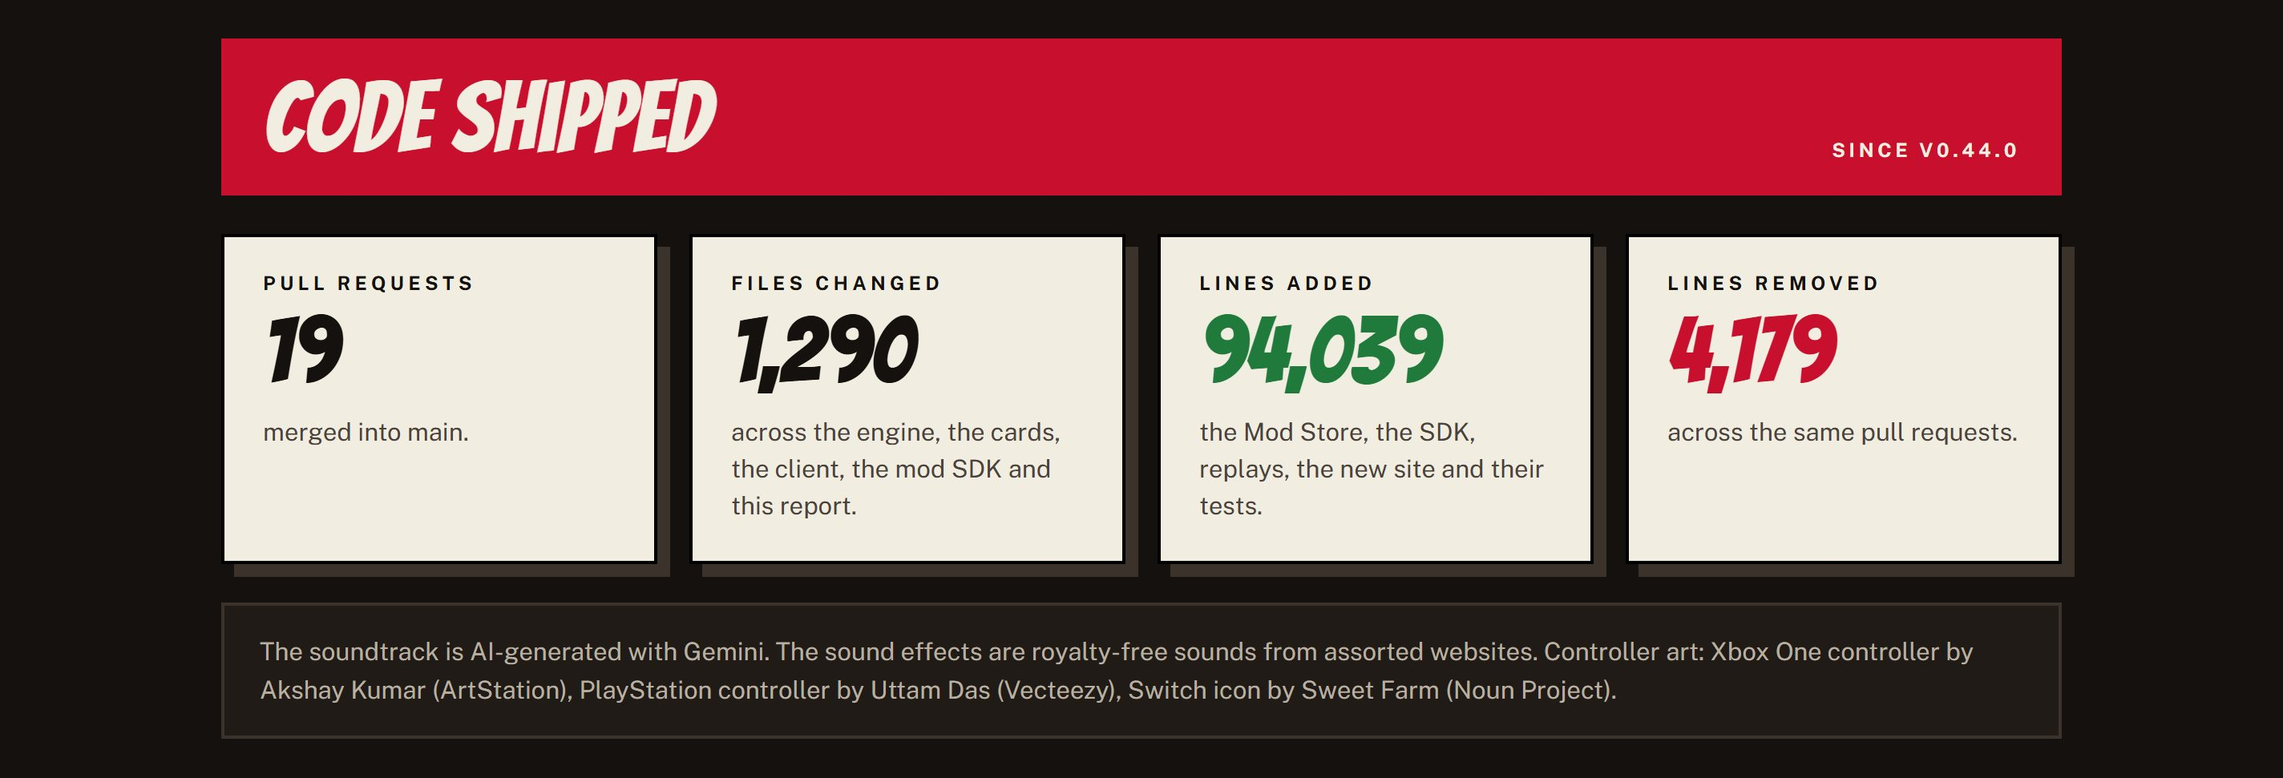
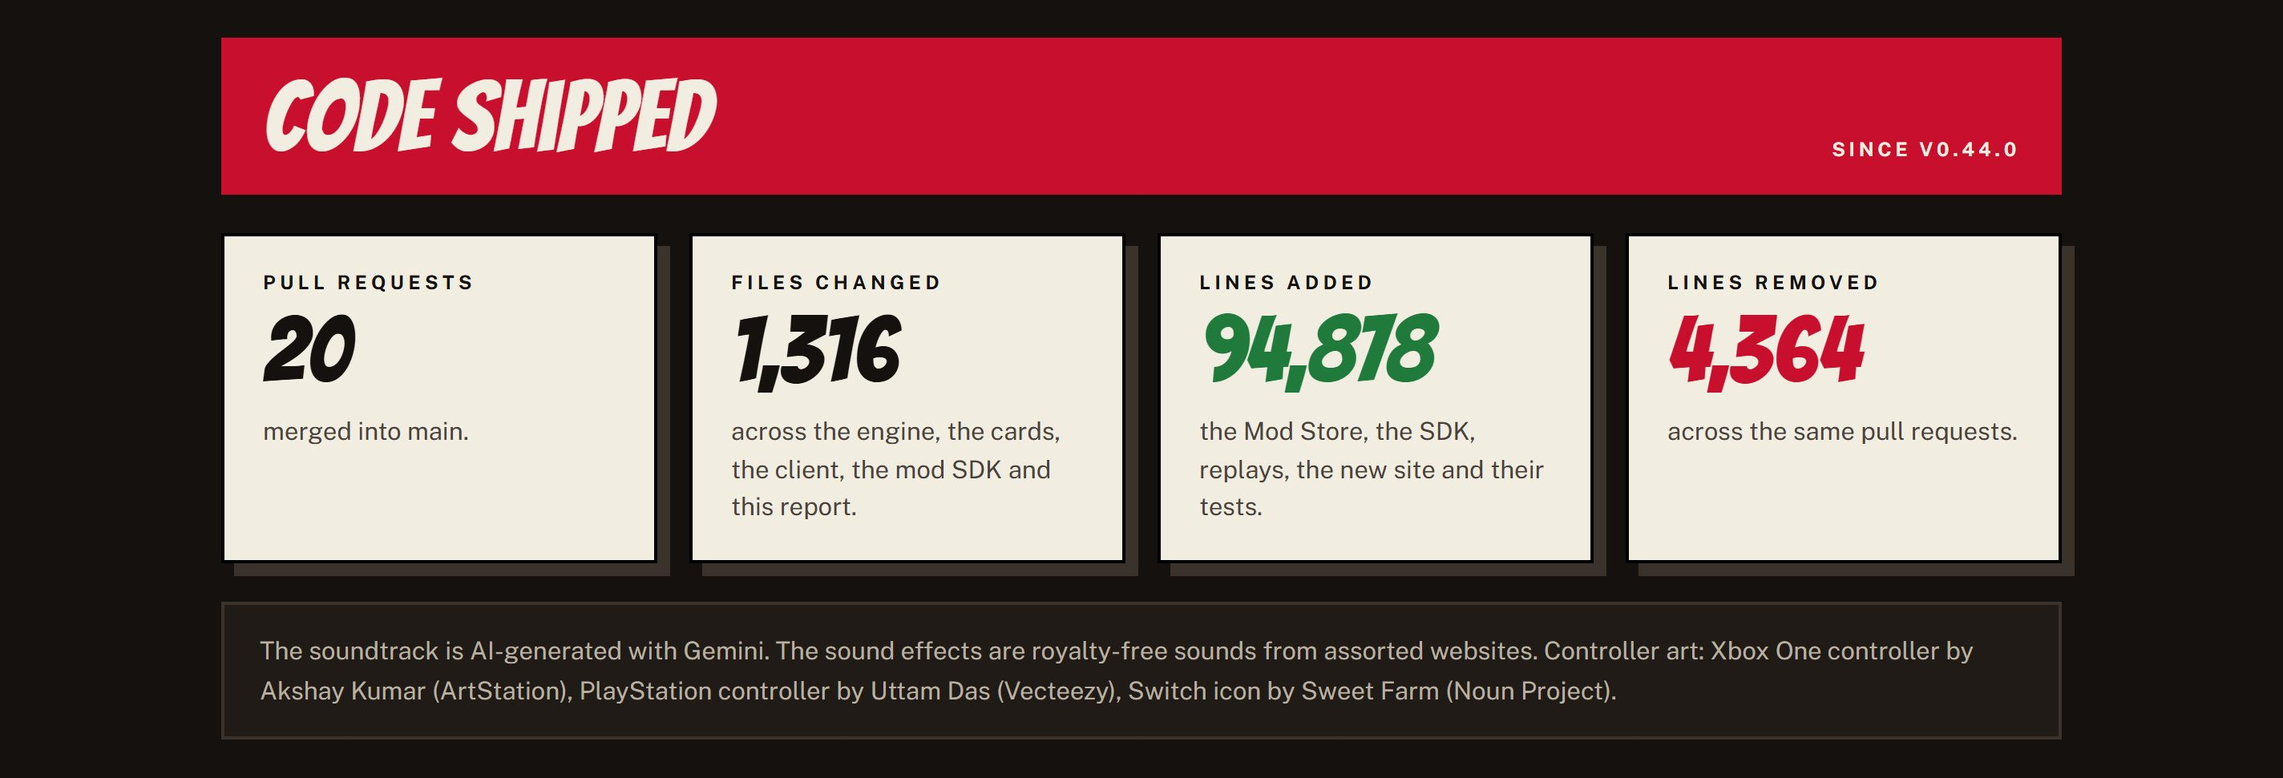
v0.45.0 announcement: bluefireF5ran's Spanish New game screens (#719), Code shipped at 20
Adds #719's Added line from the release PR's notes, a More in Spanish
item in Also in, the translation in bluefireF5ran's thank-you and the
header, and recounts Code shipped. Images 06, 07 and 08 re-cut.

diff --git a/packages/client/public/releases/v0.45.0/index.html b/packages/client/public/releases/v0.45.0/index.html
@@ -950,6 +950,10 @@
             </li>
             <li>Every product, Core Set to wave 11, is now built the way a mod is. Nothing changes in play.</li>
             <li>The FFG rulings transcript now runs to October 12, 2026.</li>
+            <li>
+              <b>More in Spanish:</b> the first New game screens (the guide chooser, scenario select and the unlock
+              prompts), translated by @bluefireF5ran (#719).
+            </li>
           </ul>
         </div>
       </div>
@@ -982,7 +986,8 @@
             <h3>@bluefireF5ran</h3>
             <p>
               Curated every community pack in the store, made the Lost Traits house rule, brought Mephisto's Spanish
-              card faces and art, and fixed how searches offer cards, <b>#714</b> and <b>#715</b>.
+              card faces and art, fixed how searches offer cards, <b>#714</b> and <b>#715</b>, and put the first New
+              game screens into Spanish, <b>#719</b>.
             </p>
           </div>
           <div class="person wide">
@@ -1016,22 +1021,22 @@
       <section class="stats" aria-label="Code shipped since v0.44.0">
         <div class="tile">
           <h4>Pull requests</h4>
-          <div class="n">19</div>
+          <div class="n">20</div>
           <p>merged into main.</p>
         </div>
         <div class="tile">
           <h4>Files changed</h4>
-          <div class="n">1,290</div>
+          <div class="n">1,316</div>
           <p>across the engine, the cards, the client, the mod SDK and this report.</p>
         </div>
         <div class="tile">
           <h4>Lines added</h4>
-          <div class="n c-green">94,039</div>
+          <div class="n c-green">94,878</div>
           <p>the Mod Store, the SDK, replays, the new site and their tests.</p>
         </div>
         <div class="tile">
           <h4>Lines removed</h4>
-          <div class="n c-red">4,179</div>
+          <div class="n c-red">4,364</div>
           <p>across the same pull requests.</p>
         </div>
       </section>

diff --git a/docs/releases/es/v0.45.0.md b/docs/releases/es/v0.45.0.md
@@ -1,6 +1,6 @@
 ## La Mod Store abre sus puertas
 
-Los héroes y escenarios de la comunidad ahora se instalan desde el propio juego: la Mod Store abre en Extras con ocho packs hechos por fans de Neptune, DesignHacker, BlueHG, Patatasaurio, PermaKarma, Gideon's Gaming y Bluefire, seleccionados y revisados por @bluefireF5ran y pedidos primero por @Kravenprime (#661, #677). Ahora puedes volver a ver cualquier partida como una repetición, exportarla o compartirla, y Past games muestra cada partida terminada para volver a verla (#693, #706), y el juego ya tiene su propio sitio web, [champions-digital-game.com](https://champions-digital-game.com/) (#697), donde ahora están los informes de versión, y el juego en sí ya se mudó a [marvel.champions-digital-game.com](https://marvel.champions-digital-game.com/) (#707). @AlecHolland1582 reportó el Briefing en blanco en Android (#692) y Stealth Training (#700), Funguykawhi reportó las obligaciones de Kang en Discord (#717), y @bluefireF5ran corrigió qué cartas ofrecen Build Support, Call for Backup y Lock and Load y cómo se resuelve una búsqueda sin nada que encontrar (#714, #715). Además, pasar entre Title, Extras y la Mod Store ahora es fluido (#712). Elektra e Iron Fist están en camino. ¡Gracias!
+Los héroes y escenarios de la comunidad ahora se instalan desde el propio juego: la Mod Store abre en Extras con ocho packs hechos por fans de Neptune, DesignHacker, BlueHG, Patatasaurio, PermaKarma, Gideon's Gaming y Bluefire, seleccionados y revisados por @bluefireF5ran y pedidos primero por @Kravenprime (#661, #677). Ahora puedes volver a ver cualquier partida como una repetición, exportarla o compartirla, y Past games muestra cada partida terminada para volver a verla (#693, #706), y el juego ya tiene su propio sitio web, [champions-digital-game.com](https://champions-digital-game.com/) (#697), donde ahora están los informes de versión, y el juego en sí ya se mudó a [marvel.champions-digital-game.com](https://marvel.champions-digital-game.com/) (#707). @AlecHolland1582 reportó el Briefing en blanco en Android (#692) y Stealth Training (#700), Funguykawhi reportó las obligaciones de Kang en Discord (#717), y @bluefireF5ran corrigió qué cartas ofrecen Build Support, Call for Backup y Lock and Load y cómo se resuelve una búsqueda sin nada que encontrar (#714, #715) y tradujo al español las primeras pantallas de New game (#719). Además, pasar entre Title, Extras y la Mod Store ahora es fluido (#712). Elektra e Iron Fist están en camino. ¡Gracias!
 
 ![Los números: 8 mods en la tienda, 7 creadores y 66 packs integrados](https://raw.githubusercontent.com/quincarter/marvel-champions-digital-game/e8ca4905f5c2b9e138e8f83b77814d31fc2a9ffd/docs/screenshots/releases/v0.45.0/v0-45-0-release-01-the-numbers.jpg)
 
@@ -12,9 +12,9 @@ Los héroes y escenarios de la comunidad ahora se instalan desde el propio juego
 
 ![Lo pediste, lo corregimos: el Briefing en Android y Stealth Training, reportados por @AlecHolland1582, las obligaciones de Kang, reportadas por Funguykawhi, y dos correcciones de búsquedas de @bluefireF5ran](https://raw.githubusercontent.com/quincarter/marvel-champions-digital-game/e8ca4905f5c2b9e138e8f83b77814d31fc2a9ffd/docs/screenshots/releases/v0.45.0/v0-45-0-release-05-you-asked-we-fixed.jpg)
 
-![También en v0.45.0: reglas, escaneos nuevos, Elektra e Iron Fist en camino, cada producto construido igual que un mod, y cambios de pantalla más fluidos](https://raw.githubusercontent.com/quincarter/marvel-champions-digital-game/e8ca4905f5c2b9e138e8f83b77814d31fc2a9ffd/docs/screenshots/releases/v0.45.0/v0-45-0-release-06-also-in-v0-45-0.jpg)
+![También en v0.45.0: reglas, escaneos nuevos, Elektra e Iron Fist en camino, cada producto construido igual que un mod, más del juego en español, y cambios de pantalla más fluidos](https://raw.githubusercontent.com/quincarter/marvel-champions-digital-game/e8ca4905f5c2b9e138e8f83b77814d31fc2a9ffd/docs/screenshots/releases/v0.45.0/v0-45-0-release-06-also-in-v0-45-0.jpg)
 
-![Gracias a bluefireF5ran, los creadores de los packs, Kravenprime y AlecHolland1582](https://raw.githubusercontent.com/quincarter/marvel-champions-digital-game/e8ca4905f5c2b9e138e8f83b77814d31fc2a9ffd/docs/screenshots/releases/v0.45.0/v0-45-0-release-07-thank-you.jpg)
+![Gracias a bluefireF5ran, los creadores de los packs, Kravenprime, AlecHolland1582 y Funguykawhi](https://raw.githubusercontent.com/quincarter/marvel-champions-digital-game/e8ca4905f5c2b9e138e8f83b77814d31fc2a9ffd/docs/screenshots/releases/v0.45.0/v0-45-0-release-07-thank-you.jpg)
 
 ![Código publicado desde v0.44.0](https://raw.githubusercontent.com/quincarter/marvel-champions-digital-game/e8ca4905f5c2b9e138e8f83b77814d31fc2a9ffd/docs/screenshots/releases/v0.45.0/v0-45-0-release-08-code-shipped.jpg)
 
@@ -33,6 +33,7 @@ Los héroes y escenarios de la comunidad ahora se instalan desde el propio juego
 - Un pack de héroe se puede marcar como no listo: su héroe no se puede elegir ni sentar (los mazos muestran "Not ready yet"), y sus cartas quedan fuera de la construcción e importación de mazos
 - Imágenes de los héroes Elektra e Iron Fist y una imagen de equipo de Iron Fist y Luke Cage
 - El informe de la versión v0.45.0 tiene su propia página en el sitio, en /releases/v0.45.0/
+- Las primeras pantallas de New game (el selector de guía, la selección de escenario y la confirmación de desbloqueo) se leen en español cuando el idioma es español, con mensajes en plural en la capa de traducción (#390)
 - Past games: cada partida terminada, en una lista desde la pantalla de inicio con su villano, sus héroes y cómo terminó, para volver a verla, compartirla con un enlace o exportarla (#706)
 
 ### Changed

diff --git a/docs/screenshots/releases/v0.45.0/github-release-body.md b/docs/screenshots/releases/v0.45.0/github-release-body.md
@@ -1,6 +1,6 @@
 ## The Mod Store Is Open
 
-Community heroes and scenarios now install from inside the game: the Mod Store opens in Extras with eight fan-made packs by Neptune, DesignHacker, BlueHG, Patatasaurio, PermaKarma, Gideon's Gaming and Bluefire, curated by @bluefireF5ran and first asked for by @Kravenprime (#661, #677). Every game can now be watched back as a replay, exported or shared, and Past games lists every finished game to watch again (#693, #706), and the game has a website of its own, [champions-digital-game.com](https://champions-digital-game.com/) (#697), where the release reports now live, and the game itself has moved to [marvel.champions-digital-game.com](https://marvel.champions-digital-game.com/) (#707). @AlecHolland1582 reported the blank Briefing on Android (#692) and Stealth Training (#700), Funguykawhi reported Kang's obligations on Discord (#717), and @bluefireF5ran fixed which cards Build Support, Call for Backup and Lock and Load offer and how a search with nothing to find resolves (#714, #715). Moving between Title, Extras and the Mod Store is smooth now (#712). Elektra and Iron Fist are on the way. Thank you!
+Community heroes and scenarios now install from inside the game: the Mod Store opens in Extras with eight fan-made packs by Neptune, DesignHacker, BlueHG, Patatasaurio, PermaKarma, Gideon's Gaming and Bluefire, curated by @bluefireF5ran and first asked for by @Kravenprime (#661, #677). Every game can now be watched back as a replay, exported or shared, and Past games lists every finished game to watch again (#693, #706), and the game has a website of its own, [champions-digital-game.com](https://champions-digital-game.com/) (#697), where the release reports now live, and the game itself has moved to [marvel.champions-digital-game.com](https://marvel.champions-digital-game.com/) (#707). @AlecHolland1582 reported the blank Briefing on Android (#692) and Stealth Training (#700), Funguykawhi reported Kang's obligations on Discord (#717), and @bluefireF5ran fixed which cards Build Support, Call for Backup and Lock and Load offer and how a search with nothing to find resolves (#714, #715) and put the first New game screens into Spanish (#719). Moving between Title, Extras and the Mod Store is smooth now (#712). Elektra and Iron Fist are on the way. Thank you!
 
 **[Read the full v0.45.0 report on the site ↗](https://champions-digital-game.com/releases/v0.45.0/)**: the Mod Store and its eight packs, replays and Past games, the new website, the fixes from your reports and the thank-you wall.
 
@@ -16,9 +16,9 @@ Community heroes and scenarios now install from inside the game: the Mod Store o
 
 ![You asked, we fixed: the Briefing on Android and Stealth Training, reported by @AlecHolland1582, Kang's obligations, reported by Funguykawhi, and two search fixes by @bluefireF5ran](https://raw.githubusercontent.com/quincarter/marvel-champions-digital-game/e8ca4905f5c2b9e138e8f83b77814d31fc2a9ffd/docs/screenshots/releases/v0.45.0/v0-45-0-release-05-you-asked-we-fixed.jpg)
 
-![Also in v0.45.0: rules, new scans, Elektra and Iron Fist on the way, every product built the way a mod is, and smoother screen changes](https://raw.githubusercontent.com/quincarter/marvel-champions-digital-game/e8ca4905f5c2b9e138e8f83b77814d31fc2a9ffd/docs/screenshots/releases/v0.45.0/v0-45-0-release-06-also-in-v0-45-0.jpg)
+![Also in v0.45.0: rules, new scans, Elektra and Iron Fist on the way, every product built the way a mod is, more of the game in Spanish, and smoother screen changes](https://raw.githubusercontent.com/quincarter/marvel-champions-digital-game/e8ca4905f5c2b9e138e8f83b77814d31fc2a9ffd/docs/screenshots/releases/v0.45.0/v0-45-0-release-06-also-in-v0-45-0.jpg)
 
-![Thank you to bluefireF5ran, the pack creators, Kravenprime and AlecHolland1582](https://raw.githubusercontent.com/quincarter/marvel-champions-digital-game/e8ca4905f5c2b9e138e8f83b77814d31fc2a9ffd/docs/screenshots/releases/v0.45.0/v0-45-0-release-07-thank-you.jpg)
+![Thank you to bluefireF5ran, the pack creators, Kravenprime, AlecHolland1582 and Funguykawhi](https://raw.githubusercontent.com/quincarter/marvel-champions-digital-game/e8ca4905f5c2b9e138e8f83b77814d31fc2a9ffd/docs/screenshots/releases/v0.45.0/v0-45-0-release-07-thank-you.jpg)
 
 ![Code shipped since v0.44.0](https://raw.githubusercontent.com/quincarter/marvel-champions-digital-game/e8ca4905f5c2b9e138e8f83b77814d31fc2a9ffd/docs/screenshots/releases/v0.45.0/v0-45-0-release-08-code-shipped.jpg)
 
@@ -39,6 +39,7 @@ Community heroes and scenarios now install from inside the game: the Mod Store o
 - A hero pack can be marked not ready: its hero can't be picked or seated (decks show "Not ready yet"), and its cards stay out of deck building and import
 - Elektra and Iron Fist hero pictures and an Iron Fist and Luke Cage team-up picture
 - The v0.45.0 release report has its own page on the site, at /releases/v0.45.0/
+- The first New game screens (guide chooser, scenario select, unlock confirm) read in Spanish when the language is Spanish, with plural messages in the translation layer (#390)
 - Past games: every finished game, listed from the Title with its villain, heroes and how it went, to watch again, share as a link or export (#706)
 
 ### Changed
@@ -120,6 +121,6 @@ Community heroes and scenarios now install from inside the game: the Mod Store o
 ### Special thanks
 
 - @AlecHolland1582 reported #692 and #700.
-- @bluefireF5ran wrote #714 and #715.
+- @bluefireF5ran wrote #714, #715 and #719.
 - @Kravenprime reported #661.
 - Funguykawhi reported #717 on Discord.

diff --git a/docs/screenshots/releases/v0.45.0/discord-post.md b/docs/screenshots/releases/v0.45.0/discord-post.md
@@ -4,7 +4,7 @@ Community heroes and scenarios now install from inside the game.
 
 🛒 **Mod Store (Beta)**: open Extras ▸ Mod Store (Beta) to browse fan-made packs and install, update or remove them. Eight packs to start: Carnage, Gwenpool, Night Thrasher and Yondu, the Mephisto and The Punisher scenarios, and the Lost Traits and GMW Fixes house rules. It's a beta: Report a problem is right there in the store.
 🏆 **Mod achievements**: 15 new ones, worth no points, so mods never move your rank.
-🎬 **Replays**: watch any game back on the board. Play, pause, step and seek, then export it or share a link. Find it on Game over and in Extras ▸ Open a replay.
+🎬 **Replays**: watch any game back on the board. Play, pause, step and seek, then export it or share a link.
 🗂 **Past games**: every game you've finished, won or lost and why, on the title screen, to watch, share or export.
 🏠 **A home of its own**: the game has its own website, https://champions-digital-game.com, with news, the mods and downloads. The game itself has moved: play at https://marvel.champions-digital-game.com.
 🛠 **Fixes**: the Briefing stays drawn on Android, Stealth Training answers Secure the Landing Pad's defeat, Kang's obligations take only the named printed resource, and Build Support, Call for Backup and Lock and Load offer only cards that can enter play.
@@ -14,7 +14,7 @@ Community heroes and scenarios now install from inside the game.
 Full report: https://champions-digital-game.com/releases/v0.45.0/
 Downloads: https://github.com/quincarter/marvel-champions-digital-game/releases/tag/v0.45.0
 
-Thank you to bluefireF5ran for curating every pack and fixing two rules, to Neptune, DesignHacker, BlueHG, Patatasaurio, PermaKarma and Gideon's Gaming for making them, to Kravenprime for asking for them, and to AlecHolland1582 and Funguykawhi for their bug reports!
+Thank you to bluefireF5ran for curating every pack, fixing two rules and translating the New game screens, to Neptune, DesignHacker, BlueHG, Patatasaurio, PermaKarma and Gideon's Gaming for making them, to Kravenprime for asking for them, and to AlecHolland1582 and Funguykawhi for their bug reports!
 
 🇪🇸 **Español**
 
@@ -24,7 +24,7 @@ Los héroes y escenarios de la comunidad ahora se instalan desde el propio juego
 
 🛒 **Mod Store (Beta)**: abre Extras ▸ Mod Store (Beta) para ver packs hechos por fans e instalarlos, actualizarlos o quitarlos. Para empezar hay ocho: Carnage, Gwenpool, Night Thrasher y Yondu, los escenarios Mephisto y The Punisher, y las reglas de la casa Lost Traits y GMW Fixes. Es una beta: Report a problem está en la misma tienda.
 🏆 **Logros de mods**: 15 nuevos, sin puntos, así que los mods nunca cambian tu rango.
-🎬 **Repeticiones**: vuelve a ver cualquier partida en el tablero. Reproduce, pausa, avanza paso a paso y busca, y luego expórtala o comparte un enlace. Está en Game over y en Extras ▸ Open a replay.
+🎬 **Repeticiones**: vuelve a ver cualquier partida en el tablero. Reproduce, pausa, avanza paso a paso y busca, y luego expórtala o comparte un enlace.
 🗂 **Past games**: cada partida que terminaste, si ganaste o perdiste y por qué, en la pantalla de inicio, para verla, compartirla o exportarla.
 🏠 **Una casa propia**: el juego ya tiene su propio sitio web, https://champions-digital-game.com, con noticias, los mods y las descargas. El juego en sí ya se mudó: juega en https://marvel.champions-digital-game.com.
 🛠 **Correcciones**: el Briefing ya no queda en blanco en Android, Stealth Training responde a la derrota de Secure the Landing Pad, las obligaciones de Kang solo aceptan el recurso impreso que nombran, y Build Support, Call for Backup y Lock and Load solo ofrecen cartas que pueden entrar en juego.
@@ -34,4 +34,4 @@ Los héroes y escenarios de la comunidad ahora se instalan desde el propio juego
 Informe completo: https://champions-digital-game.com/releases/v0.45.0/index.es.html
 Descargas: https://github.com/quincarter/marvel-champions-digital-game/releases/tag/v0.45.0
 
-¡Gracias a bluefireF5ran por revisar cada pack y corregir dos reglas, a Neptune, DesignHacker, BlueHG, Patatasaurio, PermaKarma y Gideon's Gaming por crearlos, a Kravenprime por pedirlos y a AlecHolland1582 y Funguykawhi por sus reportes!
+¡Gracias a bluefireF5ran por revisar cada pack, corregir dos reglas y traducir las pantallas de New game, a Neptune, DesignHacker, BlueHG, Patatasaurio, PermaKarma y Gideon's Gaming por crearlos, a Kravenprime por pedirlos y a AlecHolland1582 y Funguykawhi por sus reportes!

diff --git a/docs/screenshots/releases/v0.45.0/release-notes-header.md b/docs/screenshots/releases/v0.45.0/release-notes-header.md
@@ -1,6 +1,6 @@
 ## The Mod Store Is Open
 
-Community heroes and scenarios now install from inside the game: the Mod Store opens in Extras with eight fan-made packs by Neptune, DesignHacker, BlueHG, Patatasaurio, PermaKarma, Gideon's Gaming and Bluefire, curated by @bluefireF5ran and first asked for by @Kravenprime (#661, #677). Every game can now be watched back as a replay, exported or shared, and Past games lists every finished game to watch again (#693, #706), and the game has a website of its own, [champions-digital-game.com](https://champions-digital-game.com/) (#697), where the release reports now live, and the game itself has moved to [marvel.champions-digital-game.com](https://marvel.champions-digital-game.com/) (#707). @AlecHolland1582 reported the blank Briefing on Android (#692) and Stealth Training (#700), Funguykawhi reported Kang's obligations on Discord (#717), and @bluefireF5ran fixed which cards Build Support, Call for Backup and Lock and Load offer and how a search with nothing to find resolves (#714, #715). Moving between Title, Extras and the Mod Store is smooth now (#712). Elektra and Iron Fist are on the way. Thank you!
+Community heroes and scenarios now install from inside the game: the Mod Store opens in Extras with eight fan-made packs by Neptune, DesignHacker, BlueHG, Patatasaurio, PermaKarma, Gideon's Gaming and Bluefire, curated by @bluefireF5ran and first asked for by @Kravenprime (#661, #677). Every game can now be watched back as a replay, exported or shared, and Past games lists every finished game to watch again (#693, #706), and the game has a website of its own, [champions-digital-game.com](https://champions-digital-game.com/) (#697), where the release reports now live, and the game itself has moved to [marvel.champions-digital-game.com](https://marvel.champions-digital-game.com/) (#707). @AlecHolland1582 reported the blank Briefing on Android (#692) and Stealth Training (#700), Funguykawhi reported Kang's obligations on Discord (#717), and @bluefireF5ran fixed which cards Build Support, Call for Backup and Lock and Load offer and how a search with nothing to find resolves (#714, #715) and put the first New game screens into Spanish (#719). Moving between Title, Extras and the Mod Store is smooth now (#712). Elektra and Iron Fist are on the way. Thank you!
 
 **[Read the full v0.45.0 report on the site ↗](https://champions-digital-game.com/releases/v0.45.0/)**: the Mod Store and its eight packs, replays and Past games, the new website, the fixes from your reports and the thank-you wall.
 
@@ -16,8 +16,8 @@ Community heroes and scenarios now install from inside the game: the Mod Store o
 
 ![You asked, we fixed: the Briefing on Android and Stealth Training, reported by @AlecHolland1582, Kang's obligations, reported by Funguykawhi, and two search fixes by @bluefireF5ran](https://raw.githubusercontent.com/quincarter/marvel-champions-digital-game/e8ca4905f5c2b9e138e8f83b77814d31fc2a9ffd/docs/screenshots/releases/v0.45.0/v0-45-0-release-05-you-asked-we-fixed.jpg)
 
-![Also in v0.45.0: rules, new scans, Elektra and Iron Fist on the way, every product built the way a mod is, and smoother screen changes](https://raw.githubusercontent.com/quincarter/marvel-champions-digital-game/e8ca4905f5c2b9e138e8f83b77814d31fc2a9ffd/docs/screenshots/releases/v0.45.0/v0-45-0-release-06-also-in-v0-45-0.jpg)
+![Also in v0.45.0: rules, new scans, Elektra and Iron Fist on the way, every product built the way a mod is, more of the game in Spanish, and smoother screen changes](https://raw.githubusercontent.com/quincarter/marvel-champions-digital-game/e8ca4905f5c2b9e138e8f83b77814d31fc2a9ffd/docs/screenshots/releases/v0.45.0/v0-45-0-release-06-also-in-v0-45-0.jpg)
 
-![Thank you to bluefireF5ran, the pack creators, Kravenprime and AlecHolland1582](https://raw.githubusercontent.com/quincarter/marvel-champions-digital-game/e8ca4905f5c2b9e138e8f83b77814d31fc2a9ffd/docs/screenshots/releases/v0.45.0/v0-45-0-release-07-thank-you.jpg)
+![Thank you to bluefireF5ran, the pack creators, Kravenprime, AlecHolland1582 and Funguykawhi](https://raw.githubusercontent.com/quincarter/marvel-champions-digital-game/e8ca4905f5c2b9e138e8f83b77814d31fc2a9ffd/docs/screenshots/releases/v0.45.0/v0-45-0-release-07-thank-you.jpg)
 
 ![Code shipped since v0.44.0](https://raw.githubusercontent.com/quincarter/marvel-champions-digital-game/e8ca4905f5c2b9e138e8f83b77814d31fc2a9ffd/docs/screenshots/releases/v0.45.0/v0-45-0-release-08-code-shipped.jpg)
